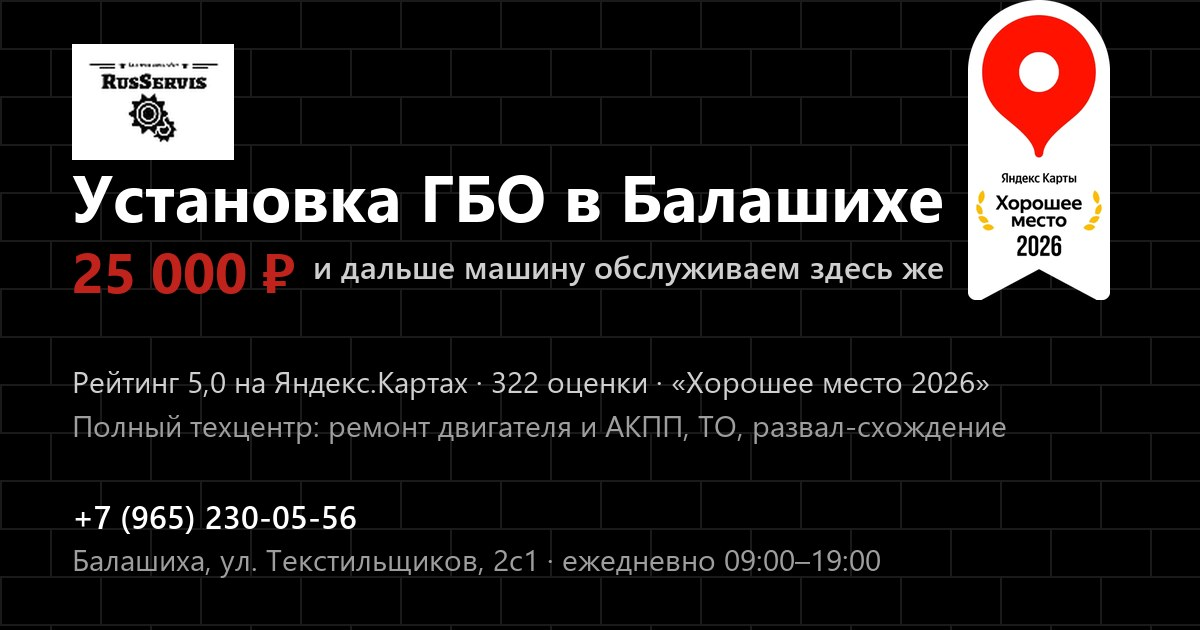
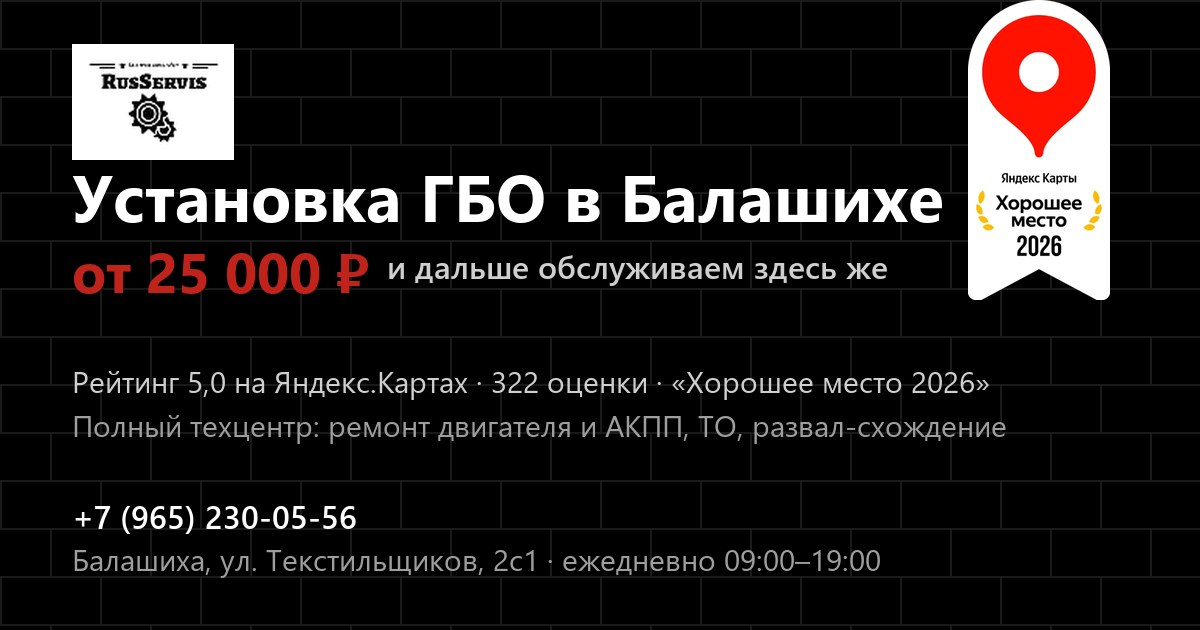
РусСервис: цена в заголовке «от 25 000 ₽»
Та же правка в описании для поиска и og-описании — иначе заголовок
и сниппет говорили бы разное. Превью для мессенджеров пересобрано.

Changed region(s): [[0.0617, 0.3921, 0.8017, 0.4825]]

diff --git a/shablon-rus-servis/site/index.html b/shablon-rus-servis/site/index.html
@@ -5,7 +5,7 @@
   <meta name="viewport" content="width=device-width, initial-scale=1">
 
   <title>Установка ГБО в Балашихе — РусСервис, ул. Текстильщиков, 2с1</title>
-  <meta name="description" content="Установка и обслуживание ГБО в Балашихе — 25 000 ₽. Автотехцентр РусСервис: рейтинг 5,0 на Яндекс.Картах, 322 оценки. Ежедневно 09:00–19:00. +7 (965) 230-05-56.">
+  <meta name="description" content="Установка и обслуживание ГБО в Балашихе — от 25 000 ₽. Автотехцентр РусСервис: рейтинг 5,0 на Яндекс.Картах, 322 оценки. Ежедневно 09:00–19:00. +7 (965) 230-05-56.">
 
   <link rel="canonical" href="https://polon-lubvi.github.io/repository-1/shablon-rus-servis/">
 
@@ -14,7 +14,7 @@
   <meta property="og:locale" content="ru_RU">
   <meta property="og:url" content="https://polon-lubvi.github.io/repository-1/shablon-rus-servis/">
   <meta property="og:title" content="Установка ГБО в Балашихе — РусСервис">
-  <meta property="og:description" content="Установка и обслуживание ГБО — 25 000 ₽. Автотехцентр с рейтингом 5,0 на Яндекс.Картах. Балашиха, ул. Текстильщиков, 2с1. +7 (965) 230-05-56.">
+  <meta property="og:description" content="Установка и обслуживание ГБО — от 25 000 ₽. Автотехцентр с рейтингом 5,0 на Яндекс.Картах. Балашиха, ул. Текстильщиков, 2с1. +7 (965) 230-05-56.">
   <!-- Абсолютный адрес: мессенджеры и соцсети относительный путь не тянут -->
   <meta property="og:image" content="https://polon-lubvi.github.io/repository-1/shablon-rus-servis/site/img/og.jpg">
   <meta property="og:image:width" content="1200">
@@ -26,11 +26,11 @@
   <link rel="apple-touch-icon" href="img/logo.png">
   <meta name="theme-color" content="#ffffff">
 
-  <link rel="stylesheet" href="fonts.css?v=1789683000">
+  <link rel="stylesheet" href="fonts.css?v=1789685400">
 
-  <link rel="stylesheet" href="theme.css?v=1789683000">
-  <link rel="stylesheet" href="base.css?v=1789683000">
-  <link rel="stylesheet" href="blocks.css?v=1789683000">
+  <link rel="stylesheet" href="theme.css?v=1789685400">
+  <link rel="stylesheet" href="base.css?v=1789685400">
+  <link rel="stylesheet" href="blocks.css?v=1789685400">
 </head>
 <body>
   <div id="app"></div>
@@ -44,9 +44,9 @@
     </div>
   </noscript>
 
-  <script src="config.js?v=1789683000"></script>
-  <script src="content.js?v=1789683000"></script>
-  <script src="icons.js?v=1789683000"></script>
-  <script src="app.js?v=1789683000"></script>
+  <script src="config.js?v=1789685400"></script>
+  <script src="content.js?v=1789685400"></script>
+  <script src="icons.js?v=1789685400"></script>
+  <script src="app.js?v=1789685400"></script>
 </body>
 </html>

diff --git a/shablon-rus-servis/site/content.js b/shablon-rus-servis/site/content.js
@@ -18,7 +18,7 @@ window.SITE = {
 
   meta: {
     title: 'Установка ГБО в Балашихе — РусСервис, ул. Текстильщиков, 2с1',
-    description: 'Установка и обслуживание ГБО в Балашихе — 25 000 ₽. Автотехцентр РусСервис: рейтинг 5,0 на Яндекс.Картах, 322 оценки. Ежедневно 09:00–19:00. +7 (965) 230-05-56.',
+    description: 'Установка и обслуживание ГБО в Балашихе — от 25 000 ₽. Автотехцентр РусСервис: рейтинг 5,0 на Яндекс.Картах, 322 оценки. Ежедневно 09:00–19:00. +7 (965) 230-05-56.',
   },
 
   brand: {
@@ -42,12 +42,12 @@ window.SITE = {
 
   /* ===================================================================
      БЛОК 1 — Первый экран.
-     Главный хук — цена из прайса организации: установка ГБО 25 000 ₽.
+     Главный хук — цена из прайса организации: установка ГБО от 25 000 ₽.
      Вторая опора — рейтинг 5,0 при 322 оценках и награда
      «Хорошее место 2026»: для автосервиса это редкая цифра.
      =================================================================== */
   hero: {
-    title:   'Установка ГБО в Балашихе — {25 000 ₽}, и дальше машину обслуживаем здесь же',
+    title:   'Установка ГБО в Балашихе — {от 25 000 ₽}, и дальше машину обслуживаем здесь же',
     engines: '',
 
     states: [

diff --git a/shablon-rus-servis/TEMPLATE-README.md b/shablon-rus-servis/TEMPLATE-README.md
@@ -10,7 +10,7 @@
 живой виджет Яндекс.Карт, калькулятор экономии на газе. Тексты, цены,
 отзывы, график и акцентный цвет переписаны под «РусСервис».
 
-Главная мысль сайта: **ГБО ставим за 25 000 ₽, и дальше машину
+Главная мысль сайта: **ГБО ставим от 25 000 ₽, и дальше машину
 обслуживаем здесь же** — техцентр полный, после установки не нужно
 ехать в другой сервис. Второй слой: сначала диагностика с заключением,
 потом смета, а решение остаётся за хозяином машины.
@@ -81,8 +81,9 @@ GitHub Pages репозитория `Polon-Lubvi/repository-1`, ветка `main
    плотностью видно мыло. Нужен исходник: PNG с прозрачным фоном или
    SVG. Заменить `img/logo.png`, из него же пересобрать `img/favicon.png`
    (180×180) и `img/favicon.ico`.
-3. **Превью для мессенджеров** `img/og.jpg`, 1200×630, и раскомментировать
-   три og-строки в `index.html`.
+3. **Превью для мессенджеров.** `img/og.jpg` собрано из того же
+   скриншота логотипа, что и знак в шапке. Когда приедет нормальный
+   логотип — пересобрать и его.
 4. **Реквизиты** — ИНН и ОГРН для подвала: в карточке на Картах их нет.
 5. **Сроки гарантии** — на работы и на оборудование.
 6. **Имена и должности мастеров.** В отзывах звучат Дмитрий, Алексей,
@@ -118,10 +119,9 @@ GitHub Pages репозитория `Polon-Lubvi/repository-1`, ветка `main
 Красными остаются только акценты: ссылки, кнопки, подчёркивания,
 рамка карточки гарантии и плашка выгоды в калькуляторе.
 
-Зелёный на сайте остался ровно один — сумма экономии в калькуляторе
-(`--green`). Это не второй фирменный цвет, а смысл «это ваши деньги»,
-поэтому при смене акцента он не трогается. Декоративные рамки и
-подчёркивания идут через `--accent-line`.
+Зелёного на сайте нет вообще, кроме индикатора «открыто» в шапке — это
+статусный огонёк, а не бренд. Сумма экономии в калькуляторе чёрная.
+Декоративные рамки и подчёркивания идут через `--accent-line`.
 
 На первом экране красный тот же `#c0221c`, что и в остальных блоках.
 На чёрном он даёт 3,5:1 — это порог для крупного текста, поэтому
